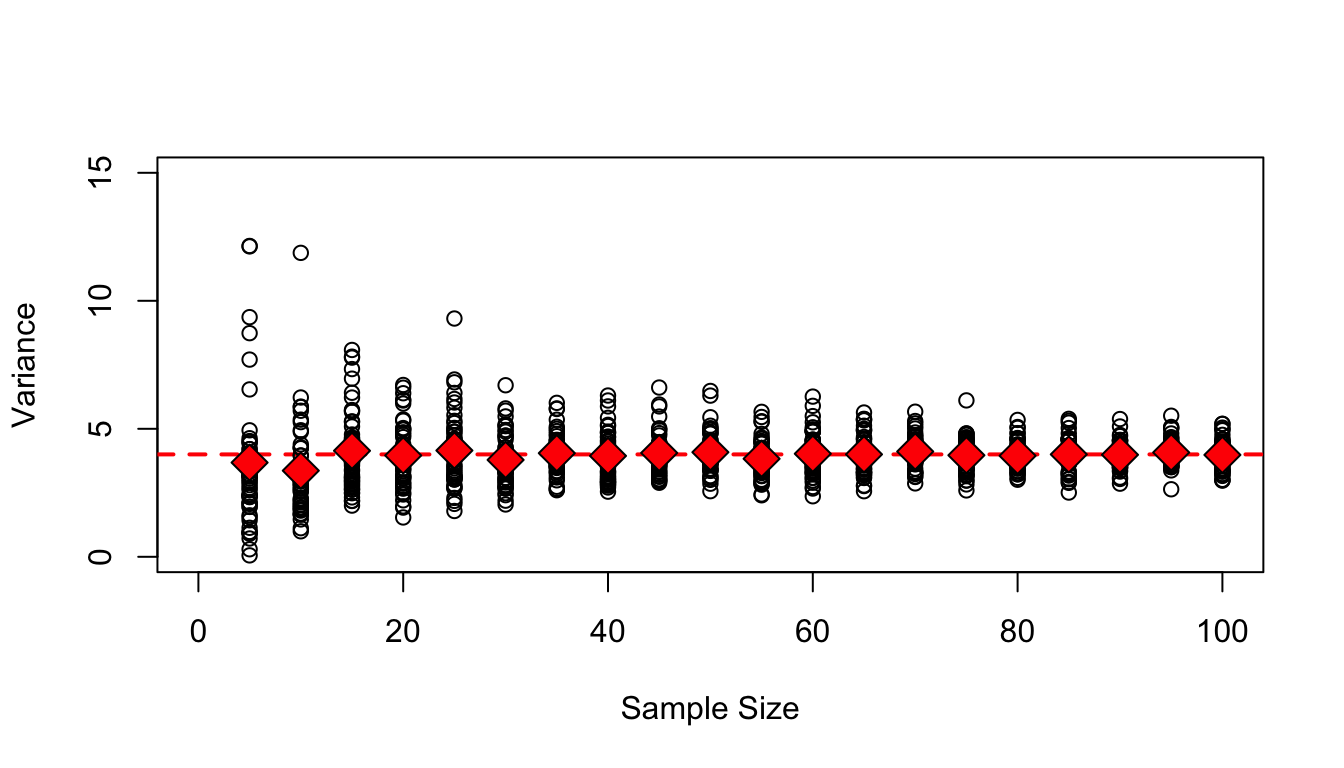
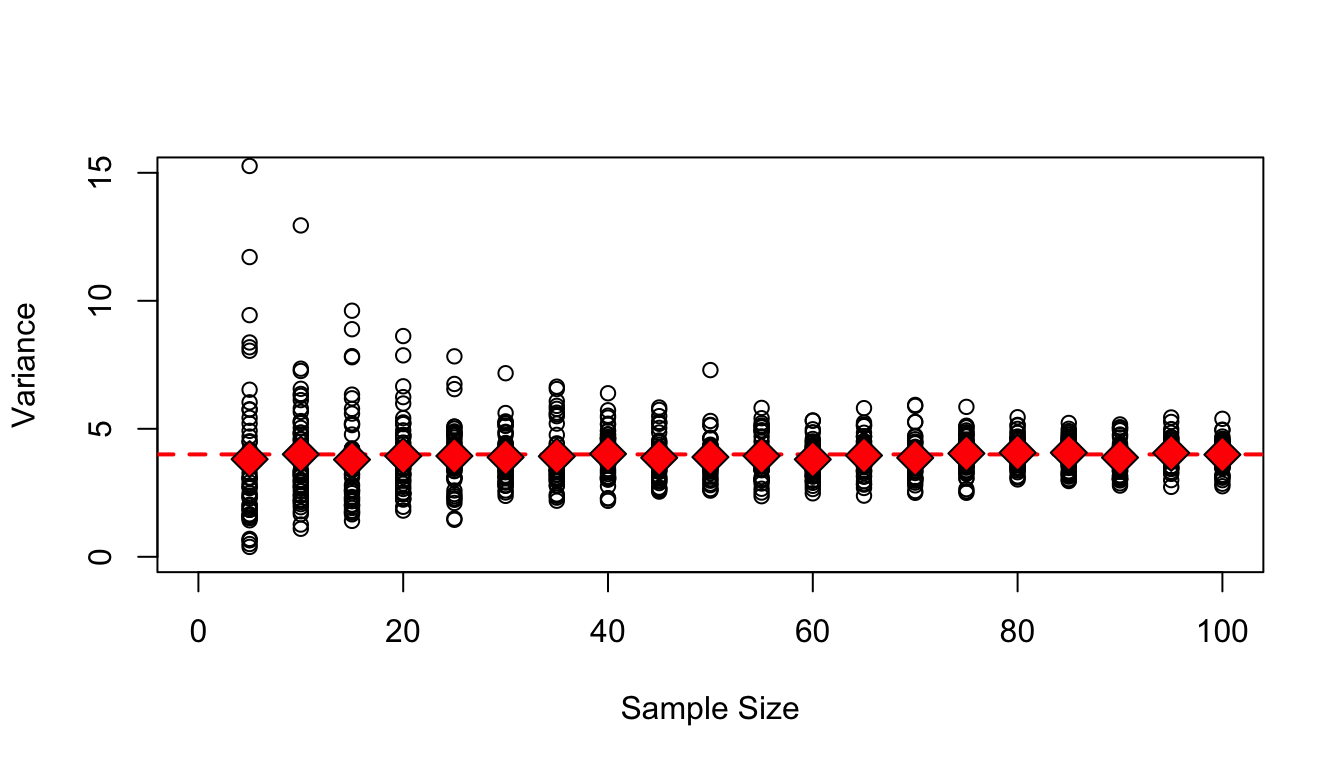
commit

diff --git a/docs/11-module.html b/docs/11-module.html
@@ -403,34 +403,34 @@ pre > code.sourceCode > span > a:first-child::before { text-decoration: underlin
 <span id="cb2-13"><a href="#cb2-13" aria-hidden="true" tabindex="-1"></a><span class="fu">head</span>(df)</span></code><button title="Copy to Clipboard" class="code-copy-button"><i class="bi"></i></button></pre></div>
 <div class="cell-output cell-output-stdout">
 <pre><code>##       name     house   code
-## 1      Ned     Stark 122948
-## 2    Sansa     Stark 184227
-## 3   Cersei Lannister 170237
-## 4   Tyrion Lannister 313189
-## 5      Jon     Stark 604152
-## 6 Daenerys Targaryen 366694</code></pre>
+## 1      Ned     Stark 923391
+## 2    Sansa     Stark 112583
+## 3   Cersei Lannister 615210
+## 4   Tyrion Lannister 797006
+## 5      Jon     Stark 382894
+## 6 Daenerys Targaryen 566267</code></pre>
 </div>
 <div class="sourceCode cell-code" id="cb4"><pre class="sourceCode r code-overflow-wrap code-with-copy"><code class="sourceCode r"><span id="cb4-1"><a href="#cb4-1" aria-hidden="true" tabindex="-1"></a>df <span class="ot">&lt;-</span> <span class="fu">add_prefix</span>(my_data, <span class="at">prefix =</span> <span class="st">"House "</span>, <span class="at">variable =</span> <span class="st">"house"</span>)</span>
 <span id="cb4-2"><a href="#cb4-2" aria-hidden="true" tabindex="-1"></a><span class="fu">head</span>(df)</span></code><button title="Copy to Clipboard" class="code-copy-button"><i class="bi"></i></button></pre></div>
 <div class="cell-output cell-output-stdout">
 <pre><code>##       name           house   code
-## 1      Ned     House Stark 122948
-## 2    Sansa     House Stark 184227
-## 3   Cersei House Lannister 170237
-## 4   Tyrion House Lannister 313189
-## 5      Jon     House Stark 604152
-## 6 Daenerys House Targaryen 366694</code></pre>
+## 1      Ned     House Stark 923391
+## 2    Sansa     House Stark 112583
+## 3   Cersei House Lannister 615210
+## 4   Tyrion House Lannister 797006
+## 5      Jon     House Stark 382894
+## 6 Daenerys House Targaryen 566267</code></pre>
 </div>
 <div class="sourceCode cell-code" id="cb6"><pre class="sourceCode r code-overflow-wrap code-with-copy"><code class="sourceCode r"><span id="cb6-1"><a href="#cb6-1" aria-hidden="true" tabindex="-1"></a>df <span class="ot">&lt;-</span> <span class="fu">add_prefix</span>(my_data, <span class="at">prefix =</span> <span class="st">"00001-"</span>, <span class="at">variable =</span> <span class="st">"code"</span>)</span>
 <span id="cb6-2"><a href="#cb6-2" aria-hidden="true" tabindex="-1"></a><span class="fu">head</span>(df)</span></code><button title="Copy to Clipboard" class="code-copy-button"><i class="bi"></i></button></pre></div>
 <div class="cell-output cell-output-stdout">
 <pre><code>##       name     house         code
-## 1      Ned     Stark 00001-122948
-## 2    Sansa     Stark 00001-184227
-## 3   Cersei Lannister 00001-170237
-## 4   Tyrion Lannister 00001-313189
-## 5      Jon     Stark 00001-604152
-## 6 Daenerys Targaryen 00001-366694</code></pre>
+## 1      Ned     Stark 00001-923391
+## 2    Sansa     Stark 00001-112583
+## 3   Cersei Lannister 00001-615210
+## 4   Tyrion Lannister 00001-797006
+## 5      Jon     Stark 00001-382894
+## 6 Daenerys Targaryen 00001-566267</code></pre>
 </div>
 </div>
 <blockquote class="blockquote">
@@ -440,23 +440,23 @@ pre > code.sourceCode > span > a:first-child::before { text-decoration: underlin
 <div class="sourceCode cell-code" id="cb8"><pre class="sourceCode r code-with-copy"><code class="sourceCode r"><span id="cb8-1"><a href="#cb8-1" aria-hidden="true" tabindex="-1"></a><span class="fu">head</span>(<span class="fu">add_prefix</span>(<span class="at">df =</span> my_data, <span class="at">variable =</span> <span class="st">"house"</span>))</span></code><button title="Copy to Clipboard" class="code-copy-button"><i class="bi"></i></button></pre></div>
 <div class="cell-output cell-output-stdout">
 <pre><code>##       name     house   code
-## 1      Ned     Stark 122948
-## 2    Sansa     Stark 184227
-## 3   Cersei Lannister 170237
-## 4   Tyrion Lannister 313189
-## 5      Jon     Stark 604152
-## 6 Daenerys Targaryen 366694</code></pre>
+## 1      Ned     Stark 923391
+## 2    Sansa     Stark 112583
+## 3   Cersei Lannister 615210
+## 4   Tyrion Lannister 797006
+## 5      Jon     Stark 382894
+## 6 Daenerys Targaryen 566267</code></pre>
 </div>
 <div class="sourceCode cell-code" id="cb10"><pre class="sourceCode r code-with-copy"><code class="sourceCode r"><span id="cb10-1"><a href="#cb10-1" aria-hidden="true" tabindex="-1"></a><span class="co"># versus...</span></span>
 <span id="cb10-2"><a href="#cb10-2" aria-hidden="true" tabindex="-1"></a><span class="fu">head</span>(<span class="fu">add_prefix</span>(<span class="at">variable =</span> <span class="st">"house"</span>, <span class="at">df =</span> my_data))</span></code><button title="Copy to Clipboard" class="code-copy-button"><i class="bi"></i></button></pre></div>
 <div class="cell-output cell-output-stdout">
 <pre><code>##       name     house   code
-## 1      Ned     Stark 122948
-## 2    Sansa     Stark 184227
-## 3   Cersei Lannister 170237
-## 4   Tyrion Lannister 313189
-## 5      Jon     Stark 604152
-## 6 Daenerys Targaryen 366694</code></pre>
+## 1      Ned     Stark 923391
+## 2    Sansa     Stark 112583
+## 3   Cersei Lannister 615210
+## 4   Tyrion Lannister 797006
+## 5      Jon     Stark 382894
+## 6 Daenerys Targaryen 566267</code></pre>
 </div>
 </div>
 <p>Note that in the example above, because the argument name <code>prefix</code> was excluded, the default value was used.</p>
@@ -465,34 +465,34 @@ pre > code.sourceCode > span > a:first-child::before { text-decoration: underlin
 <div class="sourceCode cell-code" id="cb12"><pre class="sourceCode r code-with-copy"><code class="sourceCode r"><span id="cb12-1"><a href="#cb12-1" aria-hidden="true" tabindex="-1"></a><span class="fu">head</span>(<span class="fu">add_prefix</span>(my_data, <span class="st">"00001-"</span>, <span class="st">"code"</span>))</span></code><button title="Copy to Clipboard" class="code-copy-button"><i class="bi"></i></button></pre></div>
 <div class="cell-output cell-output-stdout">
 <pre><code>##       name     house         code
-## 1      Ned     Stark 00001-122948
-## 2    Sansa     Stark 00001-184227
-## 3   Cersei Lannister 00001-170237
-## 4   Tyrion Lannister 00001-313189
-## 5      Jon     Stark 00001-604152
-## 6 Daenerys Targaryen 00001-366694</code></pre>
+## 1      Ned     Stark 00001-923391
+## 2    Sansa     Stark 00001-112583
+## 3   Cersei Lannister 00001-615210
+## 4   Tyrion Lannister 00001-797006
+## 5      Jon     Stark 00001-382894
+## 6 Daenerys Targaryen 00001-566267</code></pre>
 </div>
 <div class="sourceCode cell-code" id="cb14"><pre class="sourceCode r code-with-copy"><code class="sourceCode r"><span id="cb14-1"><a href="#cb14-1" aria-hidden="true" tabindex="-1"></a><span class="co"># versus...</span></span>
 <span id="cb14-2"><a href="#cb14-2" aria-hidden="true" tabindex="-1"></a><span class="fu">head</span>(<span class="fu">add_prefix</span>(my_data, <span class="st">"House "</span>, <span class="st">"house"</span>))</span></code><button title="Copy to Clipboard" class="code-copy-button"><i class="bi"></i></button></pre></div>
 <div class="cell-output cell-output-stdout">
 <pre><code>##       name           house   code
-## 1      Ned     House Stark 122948
-## 2    Sansa     House Stark 184227
-## 3   Cersei House Lannister 170237
-## 4   Tyrion House Lannister 313189
-## 5      Jon     House Stark 604152
-## 6 Daenerys House Targaryen 366694</code></pre>
+## 1      Ned     House Stark 923391
+## 2    Sansa     House Stark 112583
+## 3   Cersei House Lannister 615210
+## 4   Tyrion House Lannister 797006
+## 5      Jon     House Stark 382894
+## 6 Daenerys House Targaryen 566267</code></pre>
 </div>
 <div class="sourceCode cell-code" id="cb16"><pre class="sourceCode r code-with-copy"><code class="sourceCode r"><span id="cb16-1"><a href="#cb16-1" aria-hidden="true" tabindex="-1"></a><span class="co"># versus...</span></span>
 <span id="cb16-2"><a href="#cb16-2" aria-hidden="true" tabindex="-1"></a><span class="fu">head</span>(<span class="fu">add_prefix</span>(my_data, <span class="st">""</span>, <span class="st">"house"</span>))</span></code><button title="Copy to Clipboard" class="code-copy-button"><i class="bi"></i></button></pre></div>
 <div class="cell-output cell-output-stdout">
 <pre><code>##       name     house   code
-## 1      Ned     Stark 122948
-## 2    Sansa     Stark 184227
-## 3   Cersei Lannister 170237
-## 4   Tyrion Lannister 313189
-## 5      Jon     Stark 604152
-## 6 Daenerys Targaryen 366694</code></pre>
+## 1      Ned     Stark 923391
+## 2    Sansa     Stark 112583
+## 3   Cersei Lannister 615210
+## 4   Tyrion Lannister 797006
+## 5      Jon     Stark 382894
+## 6 Daenerys Targaryen 566267</code></pre>
 </div>
 </div>
 <p>If we try to run the line below, however, it throws an error because too few (unnamed) arguments are passed to the function for it to be able to disambiguate them:</p>
@@ -763,35 +763,35 @@ pre > code.sourceCode > span > a:first-child::before { text-decoration: underlin
 </details>
 <div class="cell-output cell-output-stdout">
 <pre><code>##   name house   code
-## 1  Ned Stark 122948
+## 1  Ned Stark 923391
 ##    name house   code
-## 2 Sansa Stark 184227
+## 2 Sansa Stark 112583
 ##     name     house   code
-## 3 Cersei Lannister 170237
+## 3 Cersei Lannister 615210
 ##     name     house   code
-## 4 Tyrion Lannister 313189
+## 4 Tyrion Lannister 797006
 ##   name house   code
-## 5  Jon Stark 604152
+## 5  Jon Stark 382894
 ##       name     house   code
-## 6 Daenerys Targaryen 366694
+## 6 Daenerys Targaryen 566267
 ##   name house   code
-## 7 Aria Stark 857364
+## 7 Aria Stark 732795
 ##      name house   code
-## 8 Brienne Tarth 929974
+## 8 Brienne Tarth 272248
 ##     name house   code
-## 9 Rickon Stark 236116
+## 9 Rickon Stark 173839
 ##      name house   code
-## 10 Edmure Tully 838536
+## 10 Edmure Tully 244076
 ##     name   house   code
-## 11 Petyr Baelish 736700
+## 11 Petyr Baelish 851439
 ##     name     house   code
-## 12 Jamie Lannister 212561
+## 12 Jamie Lannister 995680
 ##      name     house   code
-## 13 Robert Baratheon 920124
+## 13 Robert Baratheon 184120
 ##       name     house   code
-## 14 Stannis Baratheon 744081
+## 14 Stannis Baratheon 437929
 ##     name   house   code
-## 15 Theon Greyjoy 318612</code></pre>
+## 15 Theon Greyjoy 642257</code></pre>
 </div>
 </div>
 <p>Write a <code>for()</code> loop to print out the reverse of each element in the <strong>code</strong> vector in the data frame <strong>my_data</strong>.</p>
@@ -806,21 +806,21 @@ pre > code.sourceCode > span > a:first-child::before { text-decoration: underlin
 <span id="cb68-3"><a href="#cb68-3" aria-hidden="true" tabindex="-1"></a>}</span></code><button title="Copy to Clipboard" class="code-copy-button"><i class="bi"></i></button></pre></div>
 </details>
 <div class="cell-output cell-output-stdout">
-<pre><code>## [1] "849221"
-## [1] "722481"
-## [1] "732071"
-## [1] "981313"
-## [1] "251406"
-## [1] "496663"
-## [1] "463758"
-## [1] "479929"
-## [1] "611632"
-## [1] "635838"
-## [1] "007637"
-## [1] "165212"
-## [1] "421029"
-## [1] "180447"
-## [1] "216813"</code></pre>
+<pre><code>## [1] "193329"
+## [1] "385211"
+## [1] "012516"
+## [1] "600797"
+## [1] "498283"
+## [1] "762665"
+## [1] "597237"
+## [1] "842272"
+## [1] "938371"
+## [1] "670442"
+## [1] "934158"
+## [1] "086599"
+## [1] "021481"
+## [1] "929734"
+## [1] "752246"</code></pre>
 </div>
 </div>
 </section>

diff --git a/docs/04-module.html b/docs/04-module.html
@@ -749,21 +749,21 @@ pre > code.sourceCode > span > a:first-child::before { text-decoration: underlin
 <div class="sourceCode cell-code" id="cb81"><pre class="sourceCode r code-with-copy"><code class="sourceCode r"><span id="cb81-1"><a href="#cb81-1" aria-hidden="true" tabindex="-1"></a><span class="fu">mean</span>(s)</span></code><button title="Copy to Clipboard" class="code-copy-button"><i class="bi"></i></button></pre></div>
 </details>
 <div class="cell-output cell-output-stdout">
-<pre><code>## [1] 79.8981</code></pre>
+<pre><code>## [1] 80.03347</code></pre>
 </div>
 <details>
 <summary>Code</summary>
 <div class="sourceCode cell-code" id="cb83"><pre class="sourceCode r code-with-copy"><code class="sourceCode r"><span id="cb83-1"><a href="#cb83-1" aria-hidden="true" tabindex="-1"></a><span class="fu">sd</span>(s)</span></code><button title="Copy to Clipboard" class="code-copy-button"><i class="bi"></i></button></pre></div>
 </details>
 <div class="cell-output cell-output-stdout">
-<pre><code>## [1] 9.976194</code></pre>
+<pre><code>## [1] 10.05206</code></pre>
 </div>
 </div>
 </section>
 </section>
 <section id="scripts-and-functions" class="level2" data-number="4.3">
 <h2 data-number="4.3" class="anchored" data-anchor-id="scripts-and-functions"><span class="header-section-number">4.3</span> Scripts and Functions</h2>
-<p>As mentioned previously, scripts in <strong><em>R</em></strong> are simply text files that store an order list of commands, which can be used to link together sets of operations to perform complete analyses and show results.</p>
+<p>As mentioned previously, scripts in <strong><em>R</em></strong> are simply text files that store an ordered list of commands, which can be used to link together sets of operations to perform complete analyses and show results.</p>
 <p>For example, you could enter the lines below into a text editor and then save the script in a file named “my_script.R” in a folder called <code>src/</code> inside your working directory.</p>
 <div class="cell" data-layout-align="center">
 <div class="sourceCode cell-code" id="cb85"><pre class="sourceCode r code-with-copy"><code class="sourceCode r"><span id="cb85-1"><a href="#cb85-1" aria-hidden="true" tabindex="-1"></a>x <span class="ot">&lt;-</span> <span class="dv">1</span><span class="sc">:</span><span class="dv">10</span></span>
@@ -805,9 +805,8 @@ pre > code.sourceCode > span > a:first-child::before { text-decoration: underlin
 <blockquote class="blockquote">
 <p><strong>NOTE:</strong> Here, the <code>paste()</code> command allows string concatenation. Alternatively, we could use <code>paste0()</code> and omit the <code>sep=</code> argument.</p>
 </blockquote>
-<p>In general, the format for a function is as follows:</p>
-<pre><code>function_name &lt;- function(&lt;arguments&gt;) {&lt;function code&gt;}</code></pre>
-<p>You can send this function to the <strong><em>R</em></strong> console by highlighting it in the editor and hitting <code>⌘-RETURN</code> (Mac) or <code>control-ENTER</code> (PC). This loads the function as an object into the working environment.</p>
+<p>In general, the format for a function is as follows: <code>function_name &lt;- function(&lt;arguments&gt;) {&lt;function code&gt;}</code></p>
+<p>You can send your new function to the <strong><em>R</em></strong> console by highlighting it in the editor and hitting <code>⌘-RETURN</code> (Mac) or <code>control-ENTER</code> (PC). This loads the function as an object into the working environment.</p>
 <div class="cell" data-layout-align="center">
 <div class="cell-output-display">
 <div class="quarto-figure quarto-figure-center">
@@ -821,22 +820,22 @@ pre > code.sourceCode > span > a:first-child::before { text-decoration: underlin
 <li>Now we can create some test data and call the function. What are the results?</li>
 </ul>
 <div class="cell" data-layout-align="center">
-<div class="sourceCode cell-code" id="cb92"><pre class="sourceCode r code-with-copy"><code class="sourceCode r"><span id="cb92-1"><a href="#cb92-1" aria-hidden="true" tabindex="-1"></a>name1 <span class="ot">&lt;-</span> <span class="st">"Rick Grimes"</span></span>
-<span id="cb92-2"><a href="#cb92-2" aria-hidden="true" tabindex="-1"></a>name2 <span class="ot">&lt;-</span> <span class="st">"Ruth Bader Ginsburg"</span></span>
-<span id="cb92-3"><a href="#cb92-3" aria-hidden="true" tabindex="-1"></a><span class="fu">say_hi</span>(name1)</span></code><button title="Copy to Clipboard" class="code-copy-button"><i class="bi"></i></button></pre></div>
+<div class="sourceCode cell-code" id="cb91"><pre class="sourceCode r code-with-copy"><code class="sourceCode r"><span id="cb91-1"><a href="#cb91-1" aria-hidden="true" tabindex="-1"></a>name1 <span class="ot">&lt;-</span> <span class="st">"Rick Grimes"</span></span>
+<span id="cb91-2"><a href="#cb91-2" aria-hidden="true" tabindex="-1"></a>name2 <span class="ot">&lt;-</span> <span class="st">"Ruth Bader Ginsburg"</span></span>
+<span id="cb91-3"><a href="#cb91-3" aria-hidden="true" tabindex="-1"></a><span class="fu">say_hi</span>(name1)</span></code><button title="Copy to Clipboard" class="code-copy-button"><i class="bi"></i></button></pre></div>
 <div class="cell-output cell-output-stdout">
 <pre><code>## [1] "Greetings, Rick Grimes!"</code></pre>
 </div>
-<div class="sourceCode cell-code" id="cb94"><pre class="sourceCode r code-with-copy"><code class="sourceCode r"><span id="cb94-1"><a href="#cb94-1" aria-hidden="true" tabindex="-1"></a><span class="fu">say_hi</span>(name2)</span></code><button title="Copy to Clipboard" class="code-copy-button"><i class="bi"></i></button></pre></div>
+<div class="sourceCode cell-code" id="cb93"><pre class="sourceCode r code-with-copy"><code class="sourceCode r"><span id="cb93-1"><a href="#cb93-1" aria-hidden="true" tabindex="-1"></a><span class="fu">say_hi</span>(name2)</span></code><button title="Copy to Clipboard" class="code-copy-button"><i class="bi"></i></button></pre></div>
 <div class="cell-output cell-output-stdout">
 <pre><code>## [1] "Greetings, Ruth Bader Ginsburg!"</code></pre>
 </div>
 </div>
 <p>You can also save the function in a file, e.g., in the <code>src/</code> folder inside your working directory, and then <code>source("&lt;path&gt;")</code> it in code. Save your function script as “say_hi.R” and then run the following:</p>
 <div class="cell" data-layout-align="center">
-<div class="sourceCode cell-code" id="cb96"><pre class="sourceCode r code-with-copy"><code class="sourceCode r"><span id="cb96-1"><a href="#cb96-1" aria-hidden="true" tabindex="-1"></a><span class="fu">source</span>(<span class="st">"src/say_hi.R"</span>)</span>
-<span id="cb96-2"><a href="#cb96-2" aria-hidden="true" tabindex="-1"></a>name3 <span class="ot">&lt;-</span> <span class="st">"Charles Darwin"</span></span>
-<span id="cb96-3"><a href="#cb96-3" aria-hidden="true" tabindex="-1"></a><span class="fu">say_hi</span>(name3)</span></code><button title="Copy to Clipboard" class="code-copy-button"><i class="bi"></i></button></pre></div>
+<div class="sourceCode cell-code" id="cb95"><pre class="sourceCode r code-with-copy"><code class="sourceCode r"><span id="cb95-1"><a href="#cb95-1" aria-hidden="true" tabindex="-1"></a><span class="fu">source</span>(<span class="st">"src/say_hi.R"</span>)</span>
+<span id="cb95-2"><a href="#cb95-2" aria-hidden="true" tabindex="-1"></a>name3 <span class="ot">&lt;-</span> <span class="st">"Charles Darwin"</span></span>
+<span id="cb95-3"><a href="#cb95-3" aria-hidden="true" tabindex="-1"></a><span class="fu">say_hi</span>(name3)</span></code><button title="Copy to Clipboard" class="code-copy-button"><i class="bi"></i></button></pre></div>
 <div class="cell-output cell-output-stdout">
 <pre><code>## [1] "Greetings, Charles Darwin!"</code></pre>
 </div>
@@ -868,7 +867,7 @@ pre > code.sourceCode > span > a:first-child::before { text-decoration: underlin
 <h2 data-number="4.5" class="anchored" data-anchor-id="updating-r"><span class="header-section-number">4.5</span> Updating <strong><em>R</em></strong></h2>
 <p><strong><em>R</em></strong> has been under continuous and active development since its inception in the late 1990s, and several updates are made available each year. These update help to fix bugs, improve speed and computational efficiency, and add new functionality to the software. The following information on how to update <strong><em>R</em></strong> is based on <a href="http://stackoverflow.com/questions/13656699/update-r-using-rstudio"><strong>this post from Stack Overflow</strong></a></p>
 <ul>
-<li><p>Step 1: Get the latest version of <strong><em>R</em></strong> {-}</p>
+<li><p>Step 1: Get the latest version of <strong><em>R</em></strong></p>
 <ul>
 <li>Go to the <a href="http://www.r-project.org"><strong>R Project</strong></a> website.</li>
 <li>Click on <strong>CRAN</strong> in the sidebar on the left.</li>
@@ -877,7 +876,7 @@ pre > code.sourceCode > span > a:first-child::before { text-decoration: underlin
 <li>Follow the installation procedures for your system.</li>
 <li>Restart <strong><em>RStudio</em></strong>.</li>
 </ul></li>
-<li><p>Step 2: Relocate your packages {-}</p>
+<li><p>Step 2: Relocate your packages</p>
 <ul>
 <li><p>To ensure that your packages work with your shiny new version of <strong><em>R</em></strong>, you need to:</p>
 <ul>
@@ -901,9 +900,9 @@ pre > code.sourceCode > span > a:first-child::before { text-decoration: underlin
 <li>Finally, to reassure yourself that you have done everything correctly, type these two commands in the <strong><em>RStudio</em></strong> console to see what you’ve got in terms of what version of <strong><em>R</em></strong> you are running, the number of packages you have installed, and what packages you have loaded:</li>
 </ul>
 <div class="cell" data-layout-align="center">
-<div class="sourceCode cell-code" id="cb98"><pre class="sourceCode r code-with-copy"><code class="sourceCode r"><span id="cb98-1"><a href="#cb98-1" aria-hidden="true" tabindex="-1"></a>version</span>
-<span id="cb98-2"><a href="#cb98-2" aria-hidden="true" tabindex="-1"></a><span class="fu">packageStatus</span>()</span>
-<span id="cb98-3"><a href="#cb98-3" aria-hidden="true" tabindex="-1"></a>(<span class="fu">.packages</span>())</span></code><button title="Copy to Clipboard" class="code-copy-button"><i class="bi"></i></button></pre></div>
+<div class="sourceCode cell-code" id="cb97"><pre class="sourceCode r code-with-copy"><code class="sourceCode r"><span id="cb97-1"><a href="#cb97-1" aria-hidden="true" tabindex="-1"></a>version</span>
+<span id="cb97-2"><a href="#cb97-2" aria-hidden="true" tabindex="-1"></a><span class="fu">packageStatus</span>()</span>
+<span id="cb97-3"><a href="#cb97-3" aria-hidden="true" tabindex="-1"></a>(<span class="fu">.packages</span>())</span></code><button title="Copy to Clipboard" class="code-copy-button"><i class="bi"></i></button></pre></div>
 </div>
 <hr>
 </section>
@@ -912,7 +911,7 @@ pre > code.sourceCode > span > a:first-child::before { text-decoration: underlin
 <ul>
 <li>Characteristics of <strong><em>R</em></strong> objects: <code>class()</code>, <code>mode()</code>, <code>typeof()</code>, <code>str()</code>, <code>attributes()</code>, <code>dplyr::glimpse()</code></li>
 <li>Using scripts: <code>source()</code></li>
-<li>“.RData” and “.RHistory” files</li>
+<li>“.RData” and “.Rhistory” files</li>
 <li>Updating <strong><em>R</em></strong> and packages</li>
 </ul>
 

diff --git a/docs/12-module.html b/docs/12-module.html
@@ -641,14 +641,14 @@ pre > code.sourceCode > span > a:first-child::before { text-decoration: underlin
 <span id="cb21-4"><a href="#cb21-4" aria-hidden="true" tabindex="-1"></a>}</span>
 <span id="cb21-5"><a href="#cb21-5" aria-hidden="true" tabindex="-1"></a><span class="fu">pop_sd</span>(x)</span></code><button title="Copy to Clipboard" class="code-copy-button"><i class="bi"></i></button></pre></div>
 <div class="cell-output cell-output-stdout">
-<pre><code>## [1] 1.948445</code></pre>
+<pre><code>## [1] 2.037375</code></pre>
 </div>
 <div class="sourceCode cell-code" id="cb23"><pre class="sourceCode r code-with-copy"><code class="sourceCode r"><span id="cb23-1"><a href="#cb23-1" aria-hidden="true" tabindex="-1"></a>sample_sd <span class="ot">&lt;-</span> <span class="cf">function</span>(x) {</span>
 <span id="cb23-2"><a href="#cb23-2" aria-hidden="true" tabindex="-1"></a>    <span class="fu">sqrt</span>(<span class="fu">sample_var</span>(x))</span>
 <span id="cb23-3"><a href="#cb23-3" aria-hidden="true" tabindex="-1"></a>}</span>
 <span id="cb23-4"><a href="#cb23-4" aria-hidden="true" tabindex="-1"></a><span class="fu">sample_sd</span>(x)</span></code><button title="Copy to Clipboard" class="code-copy-button"><i class="bi"></i></button></pre></div>
 <div class="cell-output cell-output-stdout">
-<pre><code>## [1] 1.94942</code></pre>
+<pre><code>## [1] 2.038395</code></pre>
 </div>
 </div>
 <p>The <code>sdpop()</code> function from the {radiant} package can be used to calculate the standard deviation for a completely sampled population.</p>
@@ -656,7 +656,7 @@ pre > code.sourceCode > span > a:first-child::before { text-decoration: underlin
 <div class="sourceCode cell-code" id="cb25"><pre class="sourceCode r code-with-copy"><code class="sourceCode r"><span id="cb25-1"><a href="#cb25-1" aria-hidden="true" tabindex="-1"></a><span class="fu">library</span>(radiant)</span>
 <span id="cb25-2"><a href="#cb25-2" aria-hidden="true" tabindex="-1"></a><span class="fu">sdpop</span>(x)</span></code><button title="Copy to Clipboard" class="code-copy-button"><i class="bi"></i></button></pre></div>
 <div class="cell-output cell-output-stdout">
-<pre><code>## [1] 1.948445</code></pre>
+<pre><code>## [1] 2.037375</code></pre>
 </div>
 <div class="sourceCode cell-code" id="cb27"><pre class="sourceCode r code-with-copy"><code class="sourceCode r"><span id="cb27-1"><a href="#cb27-1" aria-hidden="true" tabindex="-1"></a><span class="fu">detach</span>(package<span class="sc">:</span>radiant)</span></code><button title="Copy to Clipboard" class="code-copy-button"><i class="bi"></i></button></pre></div>
 </div>
@@ -664,7 +664,7 @@ pre > code.sourceCode > span > a:first-child::before { text-decoration: underlin
 <div class="cell" data-layout-align="center">
 <div class="sourceCode cell-code" id="cb28"><pre class="sourceCode r code-with-copy"><code class="sourceCode r"><span id="cb28-1"><a href="#cb28-1" aria-hidden="true" tabindex="-1"></a><span class="fu">sd</span>(x)</span></code><button title="Copy to Clipboard" class="code-copy-button"><i class="bi"></i></button></pre></div>
 <div class="cell-output cell-output-stdout">
-<pre><code>## [1] 1.94942</code></pre>
+<pre><code>## [1] 2.038395</code></pre>
 </div>
 </div>
 </section>
